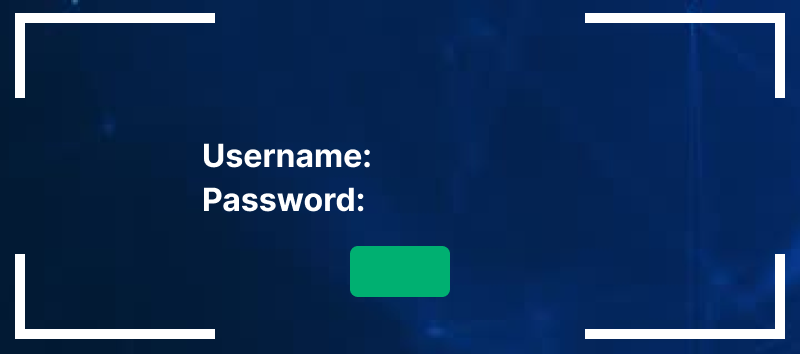
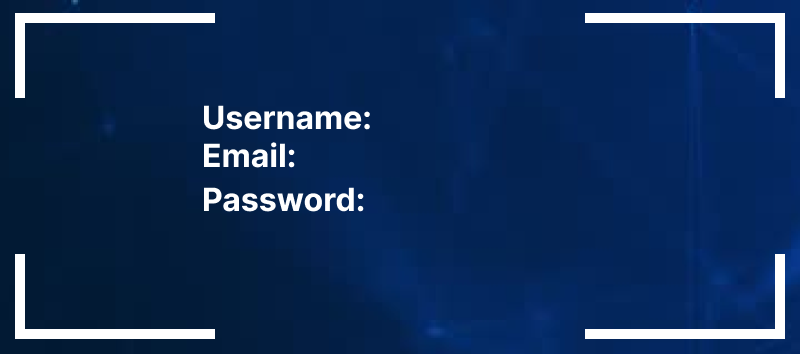
Added functionality to LoginGUI

Changed region(s): [[0.4375, 0.6836, 0.5625, 0.839], [0.25, 0.404, 0.4688, 0.4972], [0.25, 0.2797, 0.4688, 0.3729]]

diff --git a/group project v2/StatusPlusPlus/src/main/java/com/example/statusplusplus/Classes/LoginGUI.java b/group project v2/StatusPlusPlus/src/main/java/com/example/statusplusplus/Classes/LoginGUI.java
@@ -7,12 +7,78 @@ import javafx.scene.control.TextField;
 public class LoginGUI {
 
     @FXML
-    private TextField passwordBox;
+    private TextField password;
 
     @FXML
-    private Button submitButton;
+    private TextField username;
 
     @FXML
-    private TextField usernameBox;
+    private TextField email;
 
+    @FXML
+    private Button createAccount;
+
+    @FXML
+    private Button login;
+
+    private Database databaseManager;
+
+    public void setDatabaseManager(Database dbManager) {
+        this.databaseManager = dbManager;
+    }
+
+    @FXML
+    private void initialize() {
+        login.setOnAction(event -> handleLogin());
+        createAccount.setOnAction(event -> handleAccountCreation());
+    }
+
+    private void handleLogin() {
+        String usernameInput = username.getText();
+        String passwordInput = password.getText();
+        String emailInput = email.getText();
+        //System.out.println("Username: " + username + ", Password: " + password);
+        boolean validUser databaseManager.checkCredentials(email, password);
+        if (validUser) {
+            // Close the current stage
+            Stage stage = (Stage) submitButton.getScene().getWindow();
+            stage.close();
+
+            // Load and show the new GUI
+            openMainGUI();
+        }
+    }
+
+    private void handleAccountCreation() {
+        String usernameInput = username.getText();
+        String emailInput = email.getText();
+        String passwordInput = password.getText();
+
+        databaseManager.addUser(usernameInput, emailInput, passwordInput);
+
+        // Close the current stage
+        Stage stage = (Stage) submitButton.getScene().getWindow();
+        stage.close();
+
+        // Load and show the new GUI
+        openMainGUI();
+    }
+
+    private void openMainGUI() {
+        try {
+            FXMLLoader loader = new FXMLLoader(getClass().getResource("Status++GUI.fxml"));
+            Parent root = loader.load();
+
+            // If the main GUI controller needs the databaseManager, set it here
+            mainGUI controller = loader.getController();
+            controller.setDatabaseManager(databaseManager);
+
+            Stage newStage = new Stage();
+            newStage.setScene(new Scene(root));
+            newStage.setTitle("Main GUI");
+            newStage.show();
+        } catch (Exception e) {
+            e.printStackTrace();
+        }
+    }
 }
